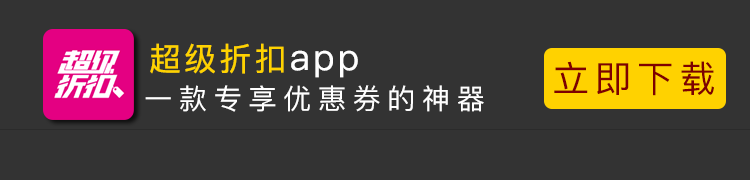
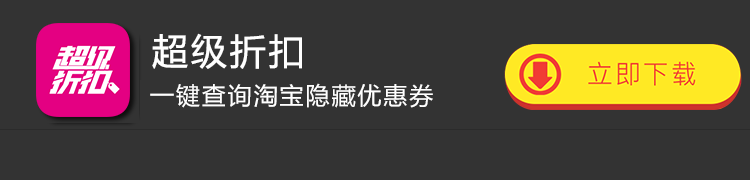
cjzk

Changed region(s): [[0.0307, 0.1111, 0.644, 0.6944], [0.6747, 0.2222, 1.0, 0.6111]]

diff --git a/cjzk.myushan.com/index.html b/cjzk.myushan.com/index.html
@@ -1,88 +1,52 @@
-<!DOCTYPE html>
-<!-- saved from url=(0024)http://cjzk.myushan.com/ -->
-<html lang="en"><head><meta http-equiv="Content-Type" content="text/html; charset=UTF-8">
-
-<title>超级折扣</title>
-<meta name="viewport" content="width=device-width"> 
-<!--
- <meta name="viewport" content="width=device-width, initial-scale=1.0, minimum-scale=1.0, maximum-scale=1.0, user-scalable=no, minimal-ui" /> -->
-<style>
-.navImage img{
-width:750px;
-height:2500px;
-}
-.navImage{
-/* text-align:center; */
-display:inline-block;
-/*margin-left:-8px!important; */
-}
-
-.navImage2 img{
-width:377px;
-height:125px;
-}
-.navImage2{
-/* text-align:center; */
-display:inline-block
-/*margin-left:-8px!important; */
-width:100%;			
-}
-
-
-body{
-margin:0!important;
-}
-</style>
-<script src="./js/hm.js"></script><script>
-var _hmt = _hmt || [];
-(function() {
-  var hm = document.createElement("script");
-  hm.src = "https://hm.baidu.com/hm.js?16ed57bb1d9feeef3227f25998bf95b5";
-  var s = document.getElementsByTagName("script")[0]; 
-      s.parentNode.insertBefore(hm, s);
-})();
-</script>
+<!doctype html>
+<html lang="en">
+<head>
+	<meta charset="UTF-8">
+	<title>超级折扣</title>
+	<meta name="viewport" content="width=device-width"> 
+ 	 <link href="images/favicon.ico" mce_href="images/favicon.ico" rel="icon" type="image/x-icon">
+     <style>
+		.navImage img{
+			width:750px;
+			height:auto;
+			}
+			.navImage{
+			display:inline-block;
+			width:100%;			
+			}
+			body{
+			margin:0!important;
+			}
+     </style>
 </head>
 <body>
-<center>
-<div class="navImage" style="position: relative;">
-    <img id="img" src="./images/bg1.jpg" alt="navbar" usemap="#navImg">
-    <map name="navImg" id="navImg">
-<area shape="rectangle" coords="191,2109,543,2211" onclick="javascript:;">
-    </map>
-	
-	<div style="font-size:16px;color:#000; position:absolute;bottom:9%;width:100%!important;height:auto;text-align:center;margin: 0 auto;">北京智投智道投资咨询有限公司</div>
-    </div> 
-<img src="./images/bg2.png" alt="" usemap="#download2Map" style=" display:block; position:fixed;margin:0 auto;bottom:0;left:0;right:0;max-width: 750px;" onclick="javascript:;">
-<map name="download2Map" id="download2">
-  <area shape="rect" coords="543,42,730,111" href="javascript:;">
-</map>
+			<center>
+				<div class="navImage">
+			    <img  src="http://cdn.lyplaaap.cn/cjzk.myushan.com/dm2/images/bg1.jpg" alt="navbar" usemap="#imgMap" id="img">
+                <map name="imgMap" class="btnCilck">
+                  <area shape="rect" coords="176,2129,571,2243" style="outline:none;" href="javascript:;">
+                </map>
+				</div> 
+			
+       <img src="http://cdn.lyplaaap.cn/cjzk.myushan.com/dm2/images/bg2.png" alt="" name="download2" border="0" usemap="#download2Map"  id="download2" style="position:fixed;margin:0 auto;bottom:0;left:0;right:0;max-width: 750px;" onClick="javascript:;" >
+<map name="download2Map"  class="btnCilck"><area shape="rect" coords="505,39,744,114"  href="javascript:;"></map>
 
-
-<!--<img src="images/bg11.png" style="position:absolute;margin:-110px auto;left:0;right:0;max-width: 200px;" alt=""  id="download1" onClick="javascript:;" >-->
-	</center>
-
+</center>
 <script>
- ;(function(){
-        document.getElementById("navImg").addEventListener("click", function(){
-            if (/(iPhone|iPad|iPod|iOS)/i.test(navigator.userAgent)) {
-                window.location.href ="https://itunes.apple.com/cn/app/%E8%B6%85%E7%BA%A7%E6%8A%98%E6%89%A3/id1290803829?l=zh&ls=1&mt=8";
-            }else {                   
-                window.location.href ="http://ffquan.com/app/1668867J";
-            }
-        });
-    })();
-    ;(function(){
-        document.getElementById("download2").addEventListener("click", function(){
-            if (/(iPhone|iPad|iPod|iOS)/i.test(navigator.userAgent)) {
-                window.location.href ="https://itunes.apple.com/cn/app/%E8%B6%85%E7%BA%A7%E6%8A%98%E6%89%A3/id1290803829?l=zh&ls=1&mt=8";
-            }else {                
-                window.location.href ="http://ffquan.com/app/1668867J";
-            }
-        });
-    })();
+
+		var Android="http://ffquan.com/app/1668867J";//安卓下载链接
+		var Ios="https://itunes.apple.com/cn/app/%E8%B6%85%E7%BA%A7%E6%8A%98%E6%89%A3/id1290803829?l=zh&ls=1&mt=8";//ios下载链接
+
+		var btns = document.getElementsByClassName("btnCilck");
+		for(var i=0;i<btns.length;i++){
+		   btns[i].onclick=function () {
+               if (/(iPhone|iPad|iPod|iOS)/i.test(navigator.userAgent)) {
+                   window.location.href =Ios;
+               }else {
+                   window.location.href =Android;
+               }
+           }
+		};
 </script>
-
-
-
-</body></html>
+</body>
+</html>
